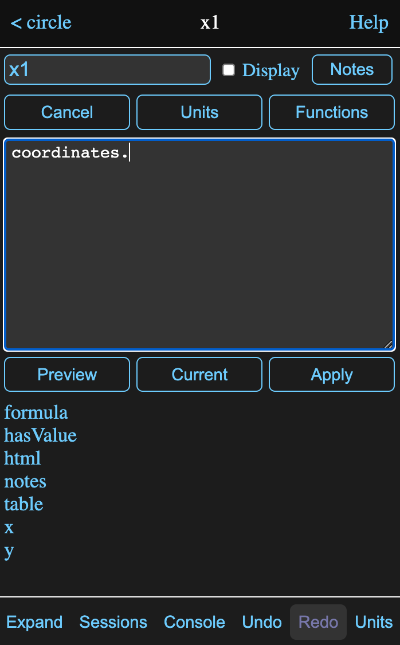
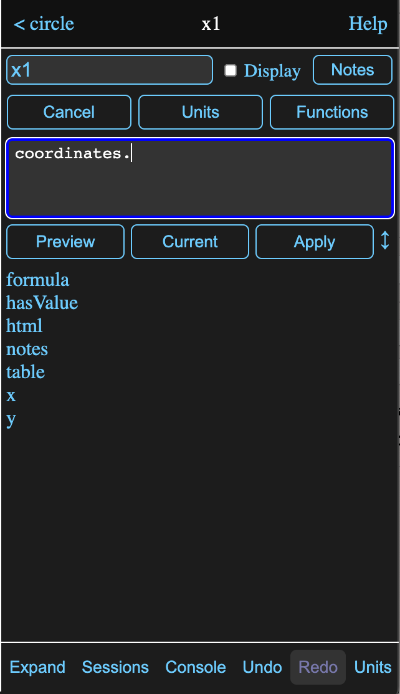
Changes to formulaedit help to reflect resizing preview area

diff --git a/help/formulaeditor.html b/help/formulaeditor.html
@@ -43,18 +43,22 @@
 				</p>
 				<p>
 					Directly editing a formula field is fine for simple one line formulas, but for more
-					complex formulas or where you would like help with units or functions, there is a
-					more elaborate formula editor that you can invoke. This is done by either typing
+					complex formulas or where you would like help with units or functions, you should
+					invoke the formula editor. This is done by either typing
 					shift-enter while editing the field or by tapping the <b>&#10530;</b> icon to its right.
 				</p>
 			</div>
 			<div id="editor" class="section">
 				<h3>Formula Editor</h3>
 				<p>
-					The formula editor consists of a large text area where the formula is
+					The formula editor consists of a text area where the formula is
 					entered or modified, along with a number of buttons and a preview area.
 				</p>
 				<img src="formulaedit.png" alt="formula editor"/>
+				<p>
+					You can drag on the up/down icon <b>&#8597;</b> to the right of the <b>Apply</b>
+					button to adjust the relative sizes of the input and preview areas.
+				</p>
 				<div id="preview" class="section">
 					<h3>Previews &amp; Completions</h3>
 					<p>
@@ -102,13 +106,13 @@
 						When the cursor appears to be where a conversion unit is appropriate, a list of
 						match units are displayed in the preview area.
 					</p>
-					<img src="formulaedit8.png" alt="unit preview"/>
+					<img src="formulaedit7.png" alt="unit preview"/>
 					<p>
 						If the cursor isn't preceded by something where a suggestion in appropriate, then the
 						preview area will show the last previewed calculation value. Initially this will be the
 						value of the original formula before editing. 
 					</p>
-					<img src="formulaedit7.png" alt="area value preview"/>
+					<img src="formulaedit8.png" alt="area value preview"/>
 					<p>
 						Here the cursor is at the end of the formula for area in that circle model and a value
 						reference or function call would not be appropriate.
